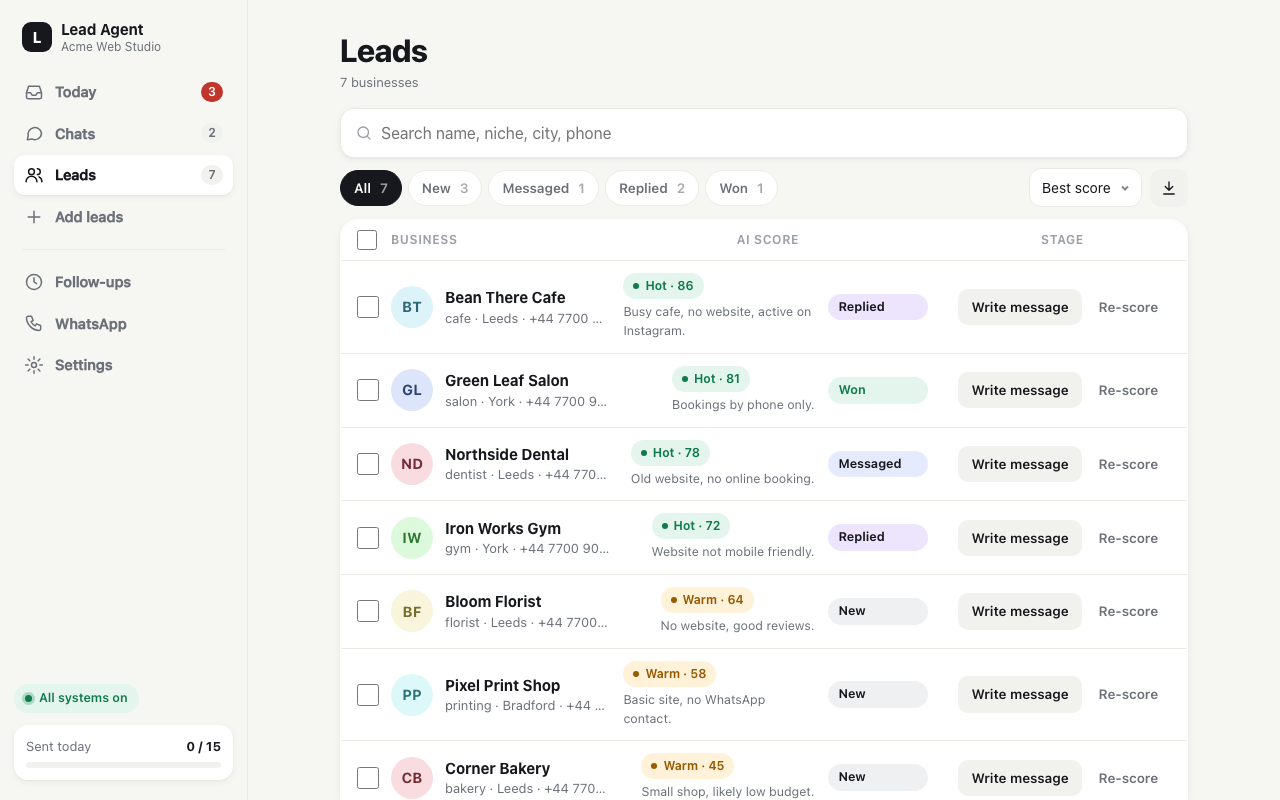
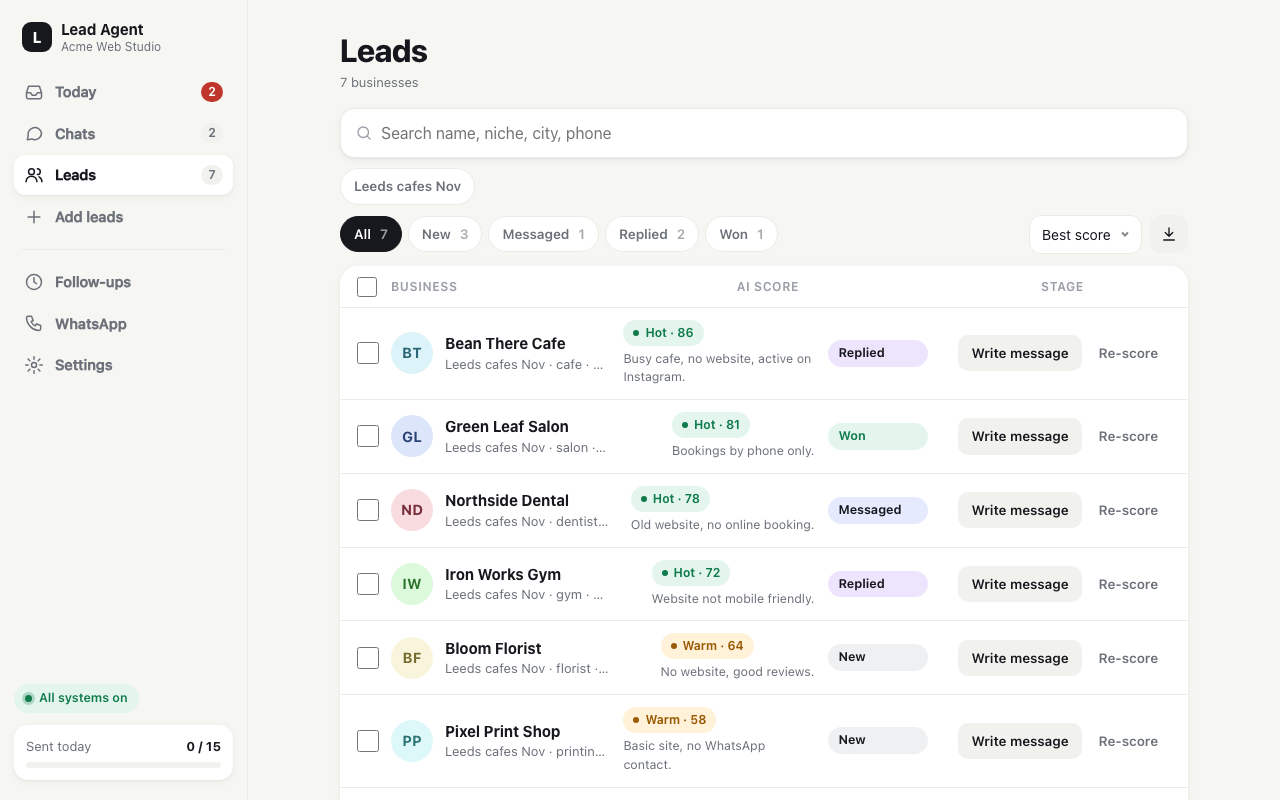
Update screenshots: sending queue, Google Places source, Settings

diff --git a/README.md b/README.md
@@ -11,7 +11,14 @@ Connects to your CRM through a REST API and webhooks.
 
 ![Today screen on desktop](docs/screenshots/today.png)
 
-![Today, Chats and a lead on a phone](docs/screenshots/phone.png)
+![Today with the sending queue, Add leads with Google Places, and a lead on a phone](docs/screenshots/phone.png)
+
+<details><summary>More screenshots: Leads and Settings</summary>
+
+![Leads list with AI scores](docs/screenshots/leads.png)
+
+![Settings with the sending queue](docs/screenshots/settings.png)
+</details>
 
 ## Features
 
